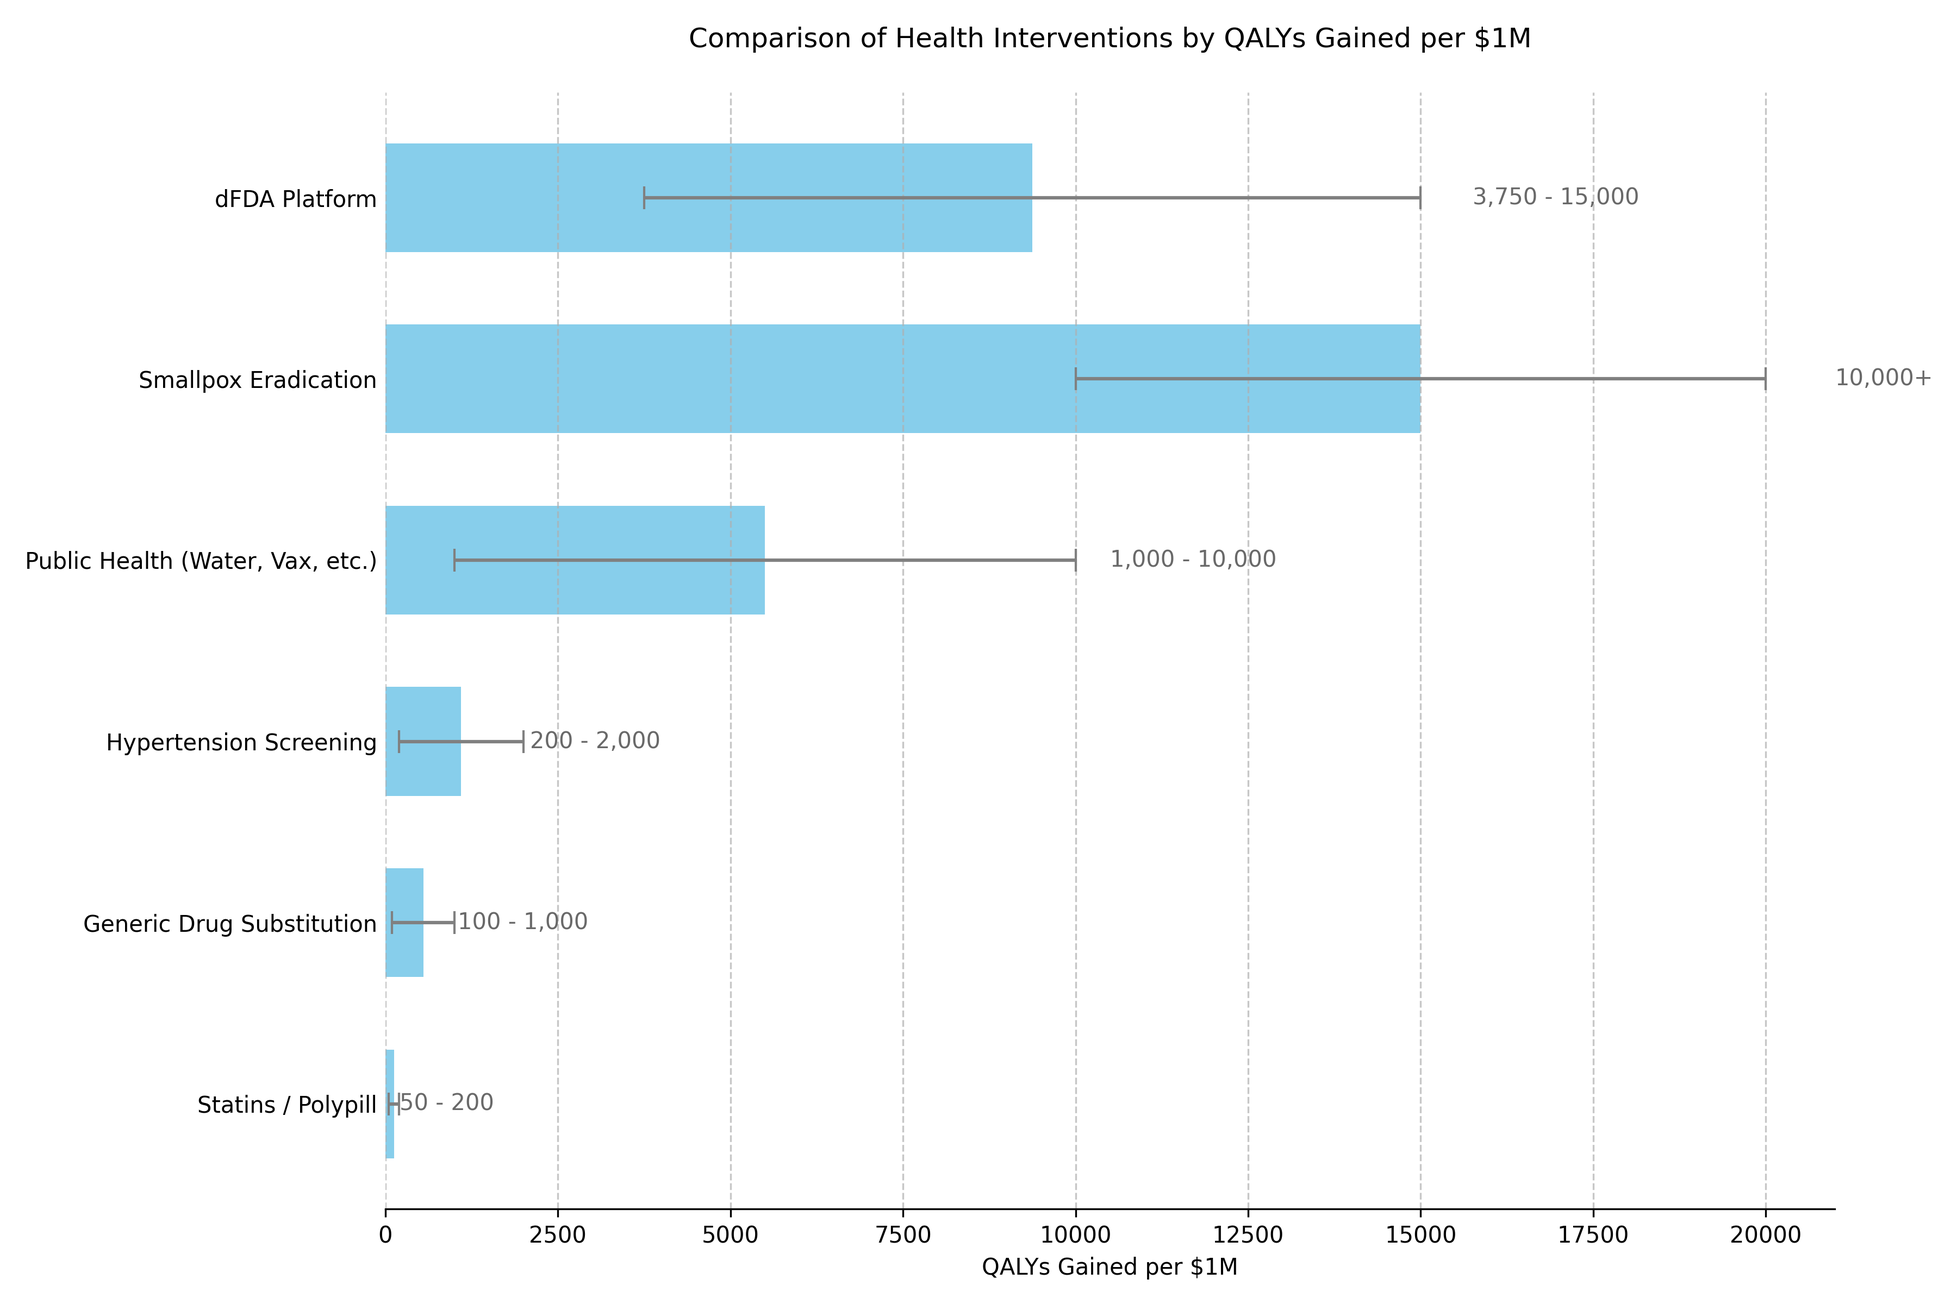
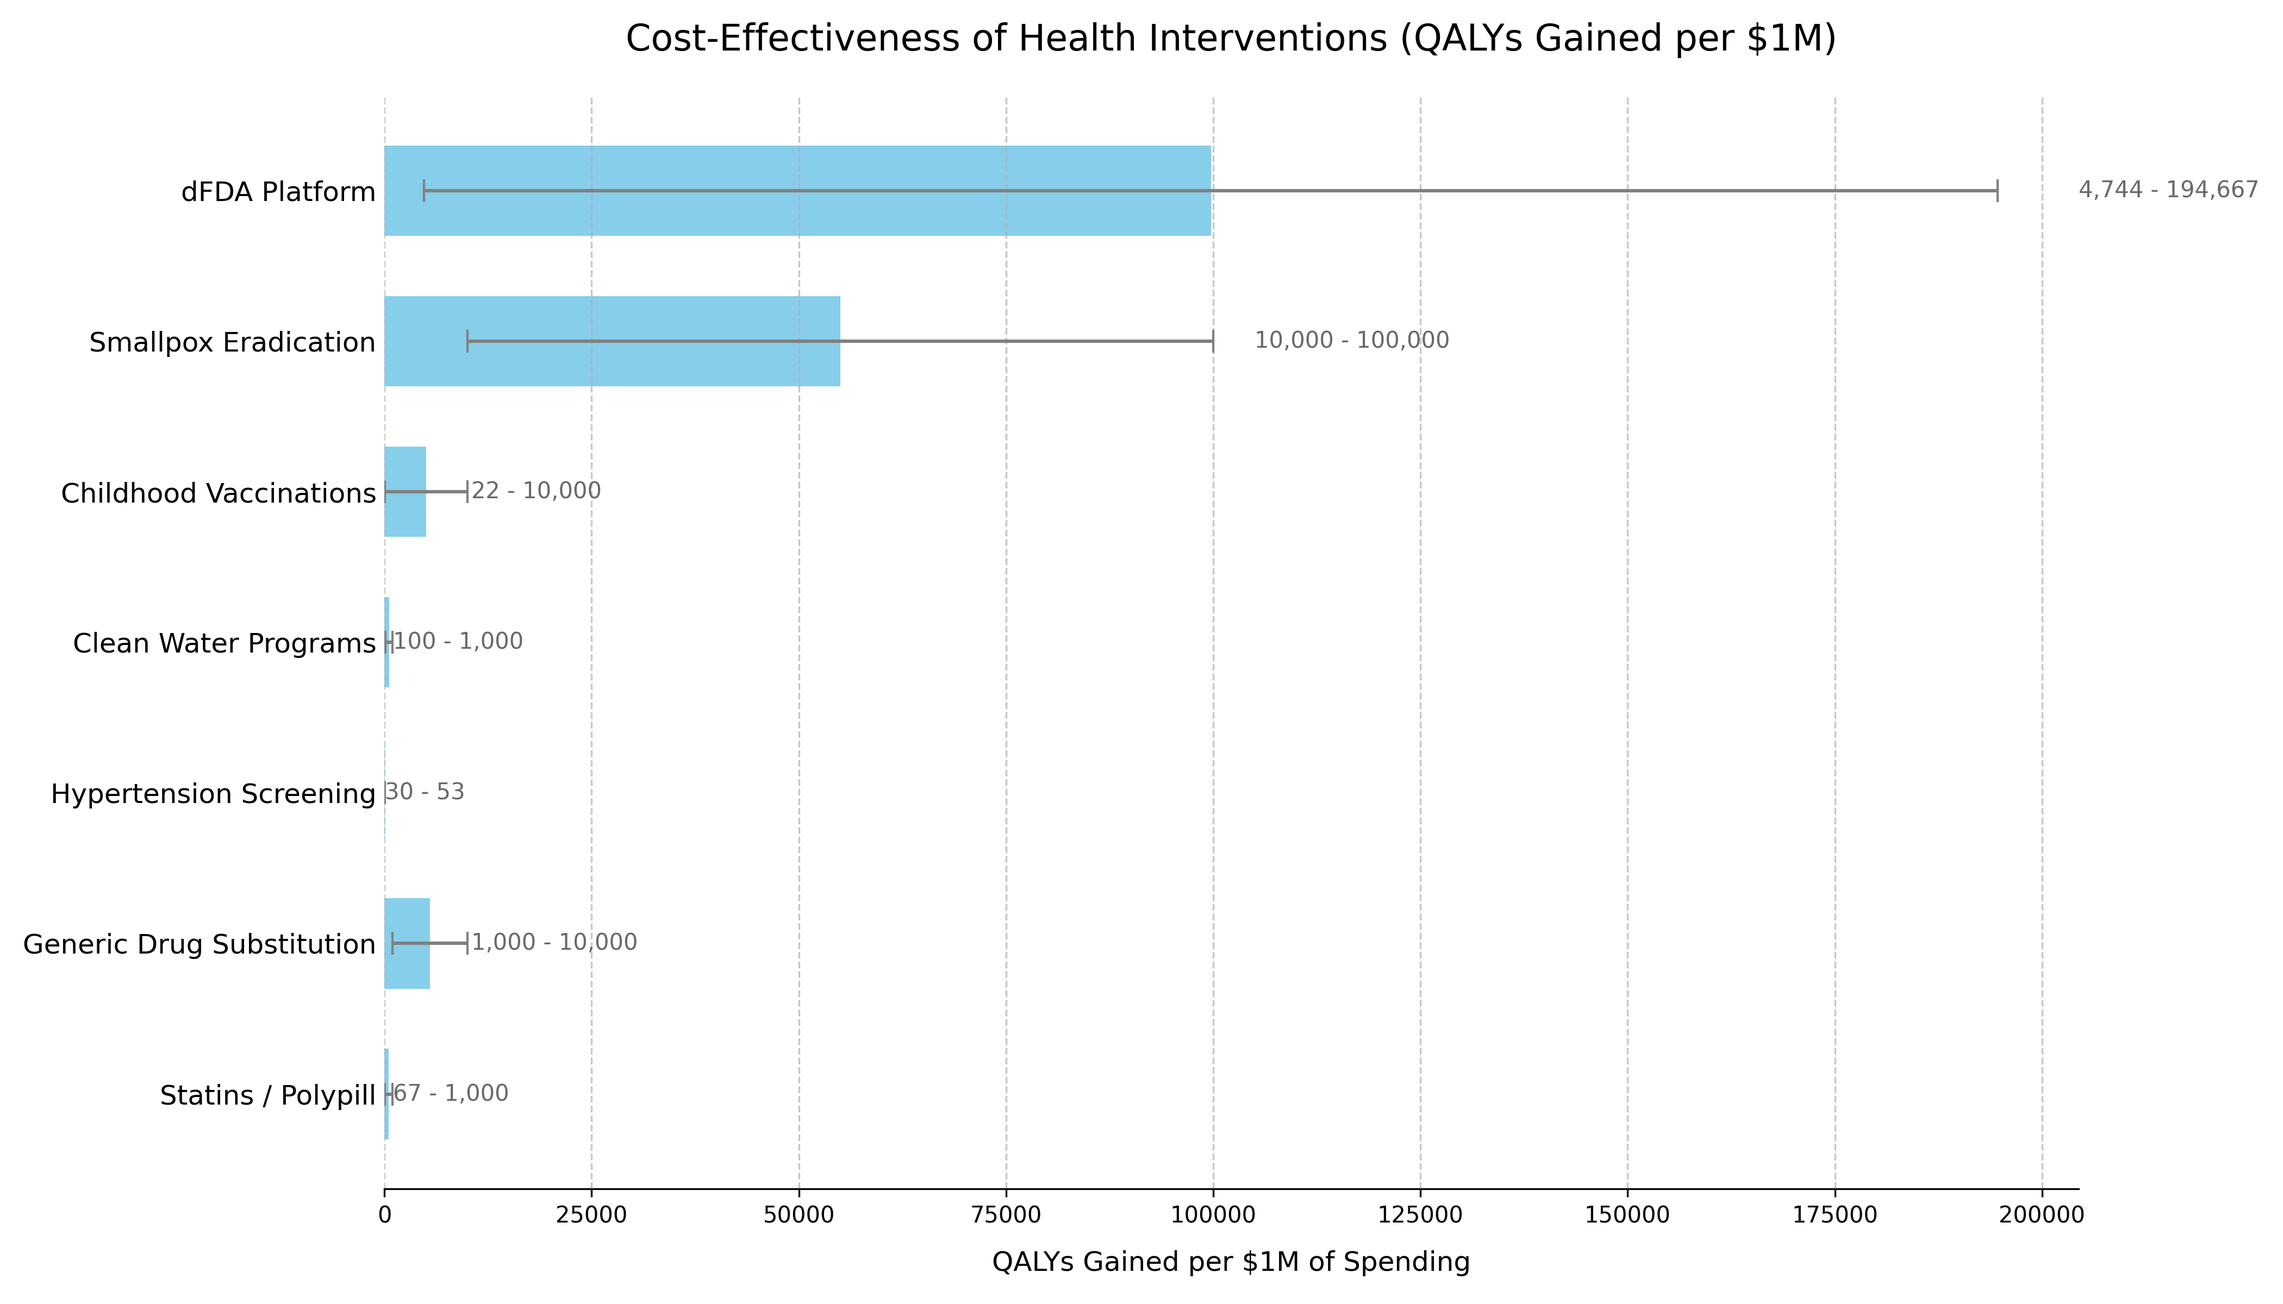
docs: update package.json and package-lock.json to reflect dependency version upgrades, including @types/node, typescript, gray-matter, markdown-it, and markdown-it-anchor. Additionally, enhance create_chart.py for improved QALY estimates and visualization, and update dfda-cost-benefit-analysis.md f

diff --git a/economic-models/create_chart.py b/economic-models/create_chart.py
@@ -1,16 +1,22 @@
 import matplotlib.pyplot as plt
 import numpy as np
 
-# Data: [Intervention, Lower QALY, Upper QALY]
-# Upper bound for "10,000+" is set to 20,000 for visualization, will be noted in text.
-# For single-point estimates, lower and upper are the same.
+# Data: [Intervention, Lower QALYs per $1M, Upper QALYs per $1M]
+# The dFDA platform data is derived from the cost-benefit analysis document (economic-models/dfda-cost-benefit-analysis.md).
+# Lower bound: Conservative QALYs (190k) / Higher-end Ops Cost ($40.05M) = ~4,744
+# Upper bound: Optimistic QALYs (3.65M) / Lower-end Ops Cost ($18.75M) = ~194,667
+#
+# Other interventions are based on the ICERs in the main analysis document.
+# QALYs per $1M = 1,000,000 / ICER
+# Dominant or cost-saving interventions are given high illustrative values.
 interventions = [
-    ("dFDA Platform", 3750, 15000), # Lower from conservative QALYs / annual cost, upper from optimistic
-    ("Smallpox Eradication", 10000, 20000), # Upper bound is indicative
-    ("Public Health (Water, Vax, etc.)", 1000, 10000),
-    ("Hypertension Screening", 200, 2000),
-    ("Generic Drug Substitution", 100, 1000),
-    ("Statins / Polypill", 50, 200),
+    ("dFDA Platform", 4744, 194667),
+    ("Smallpox Eradication", 10000, 100000), # Illustrative high range for dominant intervention
+    ("Childhood Vaccinations", 22, 10000), # From dominant (high value) to ~$45k/QALY (1M/45k=22)
+    ("Clean Water Programs", 100, 1000), # $1k-$10k/QALY -> 1M/10k=100, 1M/1k=1000
+    ("Hypertension Screening", 30, 53), # $19k-$33k/QALY -> 1M/33k=30, 1M/19k=53
+    ("Generic Drug Substitution", 1000, 10000), # Illustrative high range for dominant intervention
+    ("Statins / Polypill", 67, 1000), # From cost-saving (high value) to ~$15k/QALY (1M/15k=67)
 ]
 
 # Extract data for plotting
@@ -20,10 +26,10 @@ high_vals = np.array([x[2] for x in interventions])
 
 # Calculate midpoints and error ranges for the linear scale
 mid_points = (low_vals + high_vals) / 2
-errors = [(high_vals - low_vals) / 2, (high_vals - low_vals) / 2]
+errors = (high_vals - low_vals) / 2
 
 # Plotting
-fig, ax = plt.subplots(figsize=(12, 8))
+fig, ax = plt.subplots(figsize=(14, 8))
 y_pos = np.arange(len(labels))
 
 # Create horizontal bars at the midpoint, with error bars
@@ -31,24 +37,23 @@ ax.barh(y_pos, mid_points, xerr=errors, align='center', height=0.6,
         color='skyblue', ecolor='gray', capsize=5)
 
 ax.set_yticks(y_pos)
-ax.set_yticklabels(labels)
+ax.set_yticklabels(labels, fontsize=12)
 ax.invert_yaxis()  # Highest QALYs at the top
 
 # Formatting
-ax.set_xlabel('QALYs Gained per $1M')
-ax.set_title('Comparison of Health Interventions by QALYs Gained per $1M', pad=20)
+ax.set_xlabel('QALYs Gained per $1M of Spending', fontsize=12, labelpad=10)
+ax.set_title('Cost-Effectiveness of Health Interventions (QALYs Gained per $1M)', pad=20, fontsize=16)
 ax.grid(axis='x', linestyle='--', alpha=0.7)
 ax.spines['top'].set_visible(False)
 ax.spines['right'].set_visible(False)
 ax.spines['left'].set_visible(False)
 ax.tick_params(axis='y', length=0)
+ax.tick_params(axis='x', labelsize=10)
 
 # Add value labels for the ranges
-for i, (low, high, mid) in enumerate(zip(low_vals, high_vals, mid_points)):
-    label = f"{low:,.0f} - {high:,.0f}"
-    if high == 20000:
-        label = f"{low:,.0f}+"
-    ax.text(high * 1.05, i, label, va='center', ha='left', fontsize=10, color='dimgray')
+for i, (low, high) in enumerate(zip(low_vals, high_vals)):
+    label_text = f"{low:,.0f} - {high:,.0f}"
+    ax.text(high * 1.05, i, label_text, va='center', ha='left', fontsize=10, color='dimgray')
 
 plt.tight_layout()
 

diff --git a/economic-models/dfda-cost-benefit-analysis.md b/economic-models/dfda-cost-benefit-analysis.md
@@ -430,7 +430,7 @@ The return on investment for the dFDA platform is exceptionally high due to its 
       - Medium Broader Initiative Annual Costs (from [Scenario-Based ROM Estimates](#scenario-based-rom-estimates-for-broader-initiative-costs)): ~$21 Million/year
       - **Total Lean Ecosystem Annual Cost:** ~$19M + ~$21M = **~\$40 Million/year** (or $0.04 Billion/year). This aligns with the cost basis for the ROI cited in the Executive Summary.
     - *(Other scenarios, such as including "Worst Case" broader initiative costs from [Scenario-Based ROM Estimates](#scenario-based-rom-estimates-for-broader-initiative-costs), could be considered for sensitivity analysis but would significantly increase annual costs.)*
-- **Net Annual Savings** (assuming full adoption and [50% R&D cost reduction](#gross-r-and-d-savings-from-dfda-implementation)): $50 Billion/year.
+- **Net Annual Savings** (assuming full adoption and [50% R and D cost reduction](#gross-r-and-d-savings-from-dfda-implementation)): $50 Billion/year.
 
 From a purely financial perspective, if the industry can move to such a platform and achieve these savings:
 
@@ -1067,18 +1067,25 @@ To provide an apples-to-apples comparison against other well-understood public h
 
 A **dominant** intervention is one that is both *more effective* (generates health gains) and *less expensive* (saves costs). These are the most desirable public health investments. As shown below, the dFDA initiative is dominant, placing it in the same category as some of history's most successful health programs.
 
-| Intervention                                         | Typical ICER Range (Cost per QALY Gained)                 | Classification             | Source / Note                                                                                                                                                                                                                                                                                       |
-|:-----------------------------------------------------|:----------------------------------------------------------|:---------------------------|:----------------------------------------------------------------------------------------------------------------------------------------------------------------------------------------------------------------------------------------------------------------------------------------------------|
-| **dFDA Platform**                                    | **-$260,000 to -$19,000**¹                                  | **Dominant**               | [This analysis's Sensitivity Analysis](#sensitivity-analysis-overall-dfda-platform-cost-effectiveness). Range reflects uncertainty in R&D savings and QALY gains.                                                                                                                                    |
-| **Childhood Vaccination Programs (e.g., MMR, HPV)**  | Often **Dominant** (Cost-Saving) to **~$45,000**²           | Dominant / Highly Cost-Effective | Varies significantly by vaccine. Routine programs like MMR are often cost-saving. Others like HPV ($3k-$45k) and PCV-13 (cost-saving to $20k) are highly cost-effective. ([Amdahl et al., 2020](https://pmc.ncbi.nlm.nih.gov/articles/PMC7652907/))                                                 |
-| **Smoking Cessation Programs (e.g., quitlines)**     | Often **Dominant** (Cost-Saving) to **~$15,500**³           | Dominant / Highly Cost-Effective | Many programs are cost-saving. Range reflects cost per life-year gained from specific interventions. ([Levy et al., 2016](https://www.ncbi.nlm.nih.gov/pmc/articles/PMC5896510/))                                                                                                                       |
-| **Influenza Vaccination (Annual)**                   | **~$1,000 to ~$28,000** (for adults)⁴                      | Highly Cost-Effective      | Varies by age and season. Childhood programs can have ICERs of ~€4,000 at a population level due to herd effects, but with high uncertainty. ([Amdahl et al., 2020](https://pmc.ncbi.nlm.nih.gov/articles/PMC7652907/), [de Boer et al., 2020](https://pmc.ncbi.nlm.nih.gov/articles/PMC6958762/)) |
+| Intervention                                         | Typical ICER Range (Cost per QALY Gained)                 | Classification                   | Source / Note                                                                                                                                                                                                                                                                                       |
+|:-----------------------------------------------------|:----------------------------------------------------------|:---------------------------------|:----------------------------------------------------------------------------------------------------------------------------------------------------------------------------------------------------------------------------------------------------------------------------------------------------|
+| **dFDA Platform**                                    | **-$260,000 to -$19,000**<a href="#ref1">¹</a>                                  | **Dominant**                     | [This analysis's Sensitivity Analysis](#sensitivity-analysis-overall-dfda-platform-cost-effectiveness). Range reflects uncertainty in R&D savings and QALY gains.                                                                                                                                    |
+| **Smallpox Eradication**                             | **Dominant** (Cost-Saving)                                | **Dominant**                     | Program costs were far outweighed by economic savings from eradicated disease.                                                                                                                                                                                                                    |
+| **Generic Drug Substitution**                        | **Dominant** (Cost-Saving)                                | **Dominant**                     | By definition, substituting a generic for a brand-name drug with the same health outcome saves costs.                                                                                                                                                                                                 |
+| **Smoking Cessation Programs (e.g., quitlines)**     | Often **Dominant** (Cost-Saving) to **~$15,500**<a href="#ref2">²</a>           | Dominant / Highly Cost-Effective | Many programs are cost-saving. Range reflects cost per life-year gained from specific interventions. ([Levy et al., 2016](https://www.ncbi.nlm.nih.gov/pmc/articles/PMC5896510/))                                                                                                                       |
+| **Statins / Polypill**                               | Cost-Saving to **~$15,000**<a href="#ref3">³</a>                                | Dominant / Highly Cost-Effective | Polypill interventions show ICERs from cost-saving up to ~$15,000/QALY depending on region and risk group. ([eClinicalMedicine](https://www.thelancet.com/journals/eclinm/article/PIIS2589-5370(22)00155-2/fulltext))                                                                                  |
+| **Childhood Vaccination Programs (e.g., MMR, HPV)**  | Often **Dominant** (Cost-Saving) to **~$45,000**<a href="#ref4">⁴</a>           | Dominant / Highly Cost-Effective | Varies significantly by vaccine. Routine programs like MMR are often cost-saving. Others like HPV ($3k-$45k) and PCV-13 (cost-saving to $20k) are highly cost-effective. ([Amdahl et al., 2020](https://pmc.ncbi.nlm.nih.gov/articles/PMC7652907/))                                                 |
+| **Influenza Vaccination (Annual)**                   | **~$1,000 to ~$28,000** (for adults)<a href="#ref5">⁵</a>                      | Highly Cost-Effective            | Varies by age and season. Childhood programs can have ICERs of ~€4,000 at a population level due to herd effects, but with high uncertainty. ([Amdahl et al., 2020](https://pmc.ncbi.nlm.nih.gov/articles/PMC7652907/), [de Boer et al., 2020](https://pmc.ncbi.nlm.nih.gov/articles/PMC6958762/)) |
+| **Clean Water Programs**                             | **~$1,000 - $10,000**                                     | Highly Cost-Effective            | General estimate for a fundamental public health good; specific ICERs vary widely by implementation but are consistently low.                                                                                                                                                                       |
+| **Hypertension Screening & Mgmt**                    | **~$19,000 - $33,000**<a href="#ref6">⁶</a>                                              | Highly Cost-Effective            | ICER for intensive blood pressure control in the US is reported as $25,417/QALY, with a sensitivity range derived from the source's uncertainty intervals. ([JAMA Network Open](https://pmc.ncbi.nlm.nih.gov/articles/PMC9972197/))                                                                 |
 
 <br/>
-¹All scenarios within the sensitivity analysis result in a negative ICER, meaning the intervention is cost-saving while also generating health gains.<br/>
-²The range for childhood vaccinations is broad, reflecting the diversity of vaccines. Many foundational programs (like MMR) are dominant (cost-saving), while newer, more expensive vaccines (like HPV) have higher but still highly favorable ICERs.<br/>
-³This range is based on cost per life-year gained, a metric often closely aligned with QALYs for these interventions.<br/>
-⁴The cost-effectiveness of influenza vaccination is highly dependent on the target population and the indirect "herd immunity" effects, particularly when vaccinating children.
+<a id="ref1"></a>¹All scenarios within the sensitivity analysis result in a negative ICER, meaning the intervention is cost-saving while also generating health gains.<br/>
+<a id="ref2"></a>²Many programs are cost-saving. Range reflects cost per life-year gained from specific interventions. ([Levy et al., 2016](https://www.ncbi.nlm.nih.gov/pmc/articles/PMC5896510/))<br/>
+<a id="ref3"></a>³Polypill interventions show ICERs from cost-saving up to ~$15,000/QALY depending on region and risk group. ([eClinicalMedicine](https://www.thelancet.com/journals/eclinm/article/PIIS2589-5370(22)00155-2/fulltext))<br/>
+<a id="ref4"></a>⁴The range for childhood vaccinations is broad, reflecting the diversity of vaccines. Many foundational programs (like MMR) are dominant (cost-saving), while newer, more expensive vaccines (like HPV) have higher but still highly favorable ICERs.<br/>
+<a id="ref5"></a>⁵The cost-effectiveness of influenza vaccination is highly dependent on the target population and the indirect "herd immunity" effects, particularly when vaccinating children.<br/>
+<a id="ref6"></a>⁶ICER for intensive blood pressure control in the US is reported as $25,417/QALY, with a sensitivity range derived from the source's uncertainty intervals. ([JAMA Network Open](https://pmc.ncbi.nlm.nih.gov/articles/PMC9972197/))
 
 **Conclusion:** The dFDA initiative is not just a financially sound investment with a high ROI; it is one of the most impactful public health interventions conceivable. Its "dominant" cost-effectiveness profile is comparable to gold-standard programs like childhood vaccination and smoking cessation, but its scale of economic and health benefits is potentially orders of magnitude larger.
 
@@ -1119,8 +1126,8 @@ This stream models the benefit of accelerating the approval of new drugs that wo
         *   **Quote:** "Days to First Major Result: <100" — [The Conversation, via dFDA Wiki](../reference/recovery-trial.md)
     *   $\text{QALYs}_{\text{drug}}$: Average QALYs gained per drug, per year of earlier access.
         *   **Rationale:** Accelerating access to effective drugs has a direct and significant impact on life-years and quality of life.
-        *   **Source:** A foundational [NBER study by Glied & Lleras-Muney](https://www.nber.org/papers/w9705) quantified the health loss associated with delays in drug access.
-        *   **Quote:** "A one-year lag in the diffusion of new cancer drugs in the US (during 1986-1996) led to an estimated loss of 84,000 life-years." — [Glied, S., & Lleras-Muney, A. (2003)](https://www.nber.org/papers/w9705)
+        *   **Source:** A foundational [NBER study by Glied and Lleras-Muney](https://www.nber.org/papers/w9705) quantified the health loss associated with delays in drug access.
+        *   **Quote:** "A one-year lag in the diffusion of new cancer drugs in the US (during 1986-1996) led to an estimated loss of 84,000 life-years." — [Glied, S., and Lleras-Muney, A. (2003)](https://www.nber.org/papers/w9705)
 
 *   **Formula:** 
     $$
@@ -1132,7 +1139,7 @@ This stream models the benefit of accelerating the approval of new drugs that wo
     *   **Base:** 20 drugs/year $\times$ 1.5 years acceleration $\times$ 8,000 QALYs/drug = <a href="#summary-of-total-annual-qaly-gains">**240,000 QALYs**</a>
     *   **Optimistic:** 25 drugs/year $\times$ 2 years acceleration $\times$ 10,000 QALYs/drug = <a href="#summary-of-total-annual-qaly-gains">**500,000 QALYs**</a>
 
-#### B. QALYs from Improved Prevention & Real-World Evidence (RWE)
+#### B. QALYs from Improved Prevention and Real-World Evidence (RWE)
 
 This stream models the benefit of using the dFDA's vast data to optimize preventative care and the use of existing treatments.
 
